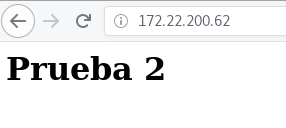
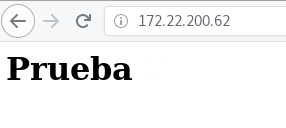
Docker

Changed region(s): [[0.5035, 0.4375, 0.5874, 0.625]]

diff --git a/docker.html b/docker.html
@@ -38,7 +38,7 @@ tema: white
     <li><strong>Docker Registry</strong>: La finalidad de este componente es almacenar las imágenes generadas por el Docker Engine. Nos permite distribuir nuestras imágenes. Podemos instalar un registro privado, o hacer uso de uno público como Docker Hub.</li>
   </ul>
 </section>
-<section>
+
 <section>
   <h2>Ciclo de vida de nuestras aplicaciones en docker</h2>
 </section>
@@ -48,9 +48,10 @@ tema: white
   <p>Por lo tanto lo primero que debemos hacer es crear nuestra página web:</p>
   <pre><code data-trim data-noescape>
   $ cd public_html
-  echo "<h1>Prueba</h1>" > index.html
+  echo "&lt;h1&gt;Prueba&lt;/h1&gt;" > index.html
   </code></pre>
 </section>
+<section>
 <section>
   <h3>Paso 2: Creación de la imagen Docker</h3>
   <p>Utilizando un fichero <code>Dockerfile</code> definimos como vamos a crear nuestra imagen:</p>
@@ -109,6 +110,8 @@ tema: white
     debian                    latest              be2868bebaba        10 days ago         101MB
   </code></pre>
 </section>
+</section>
+<section>
 <section>
   <h4>Paso 3: Probamos nuestra aplicación en el entorno de desarrollo</h4>
   <p>Creamos un contenedor en nuestro entorno de desarrollo:</p>
